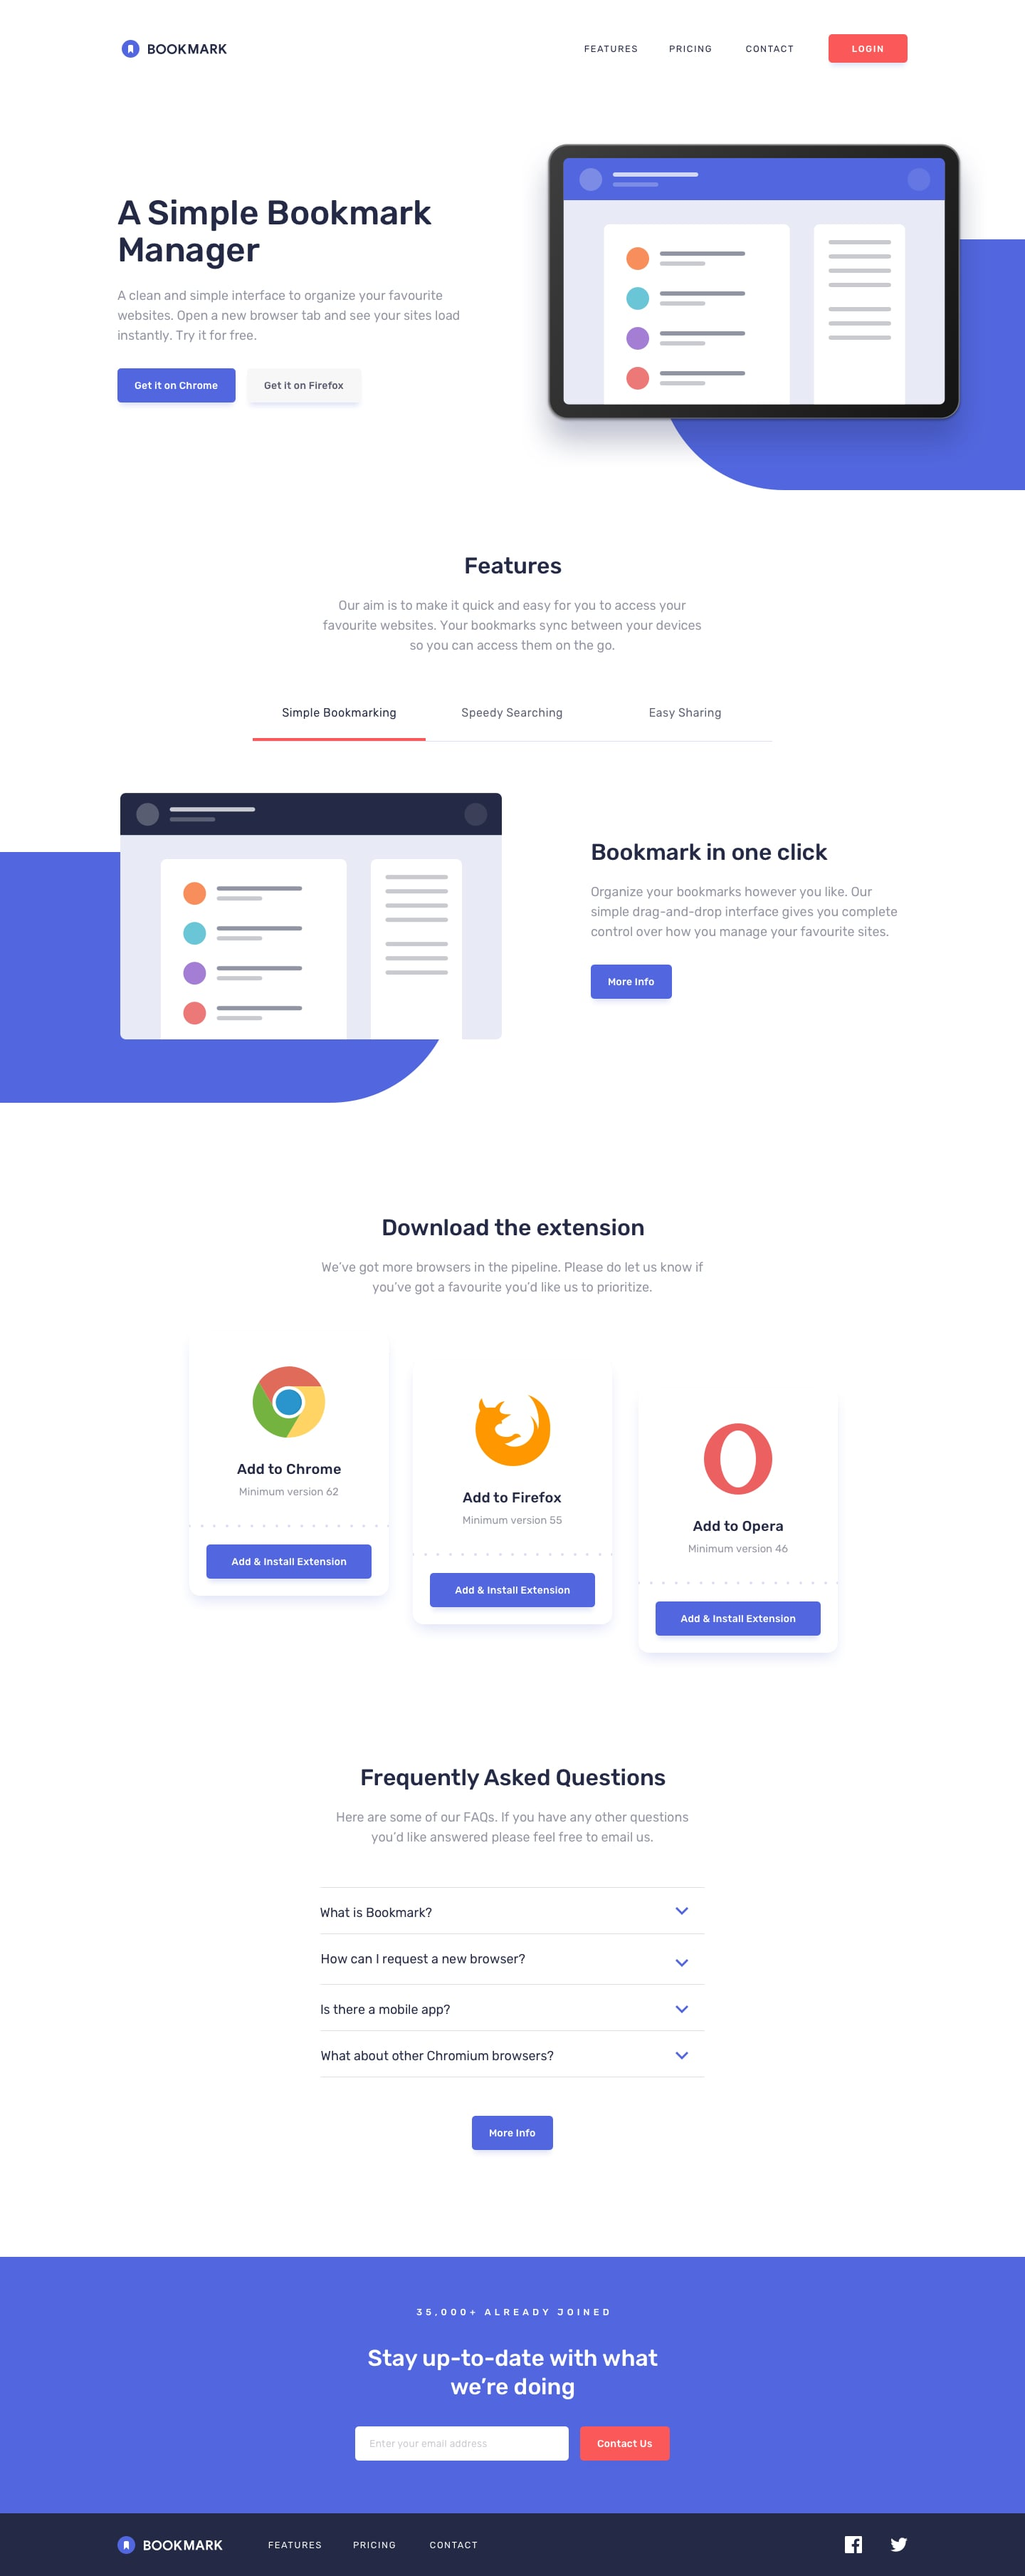
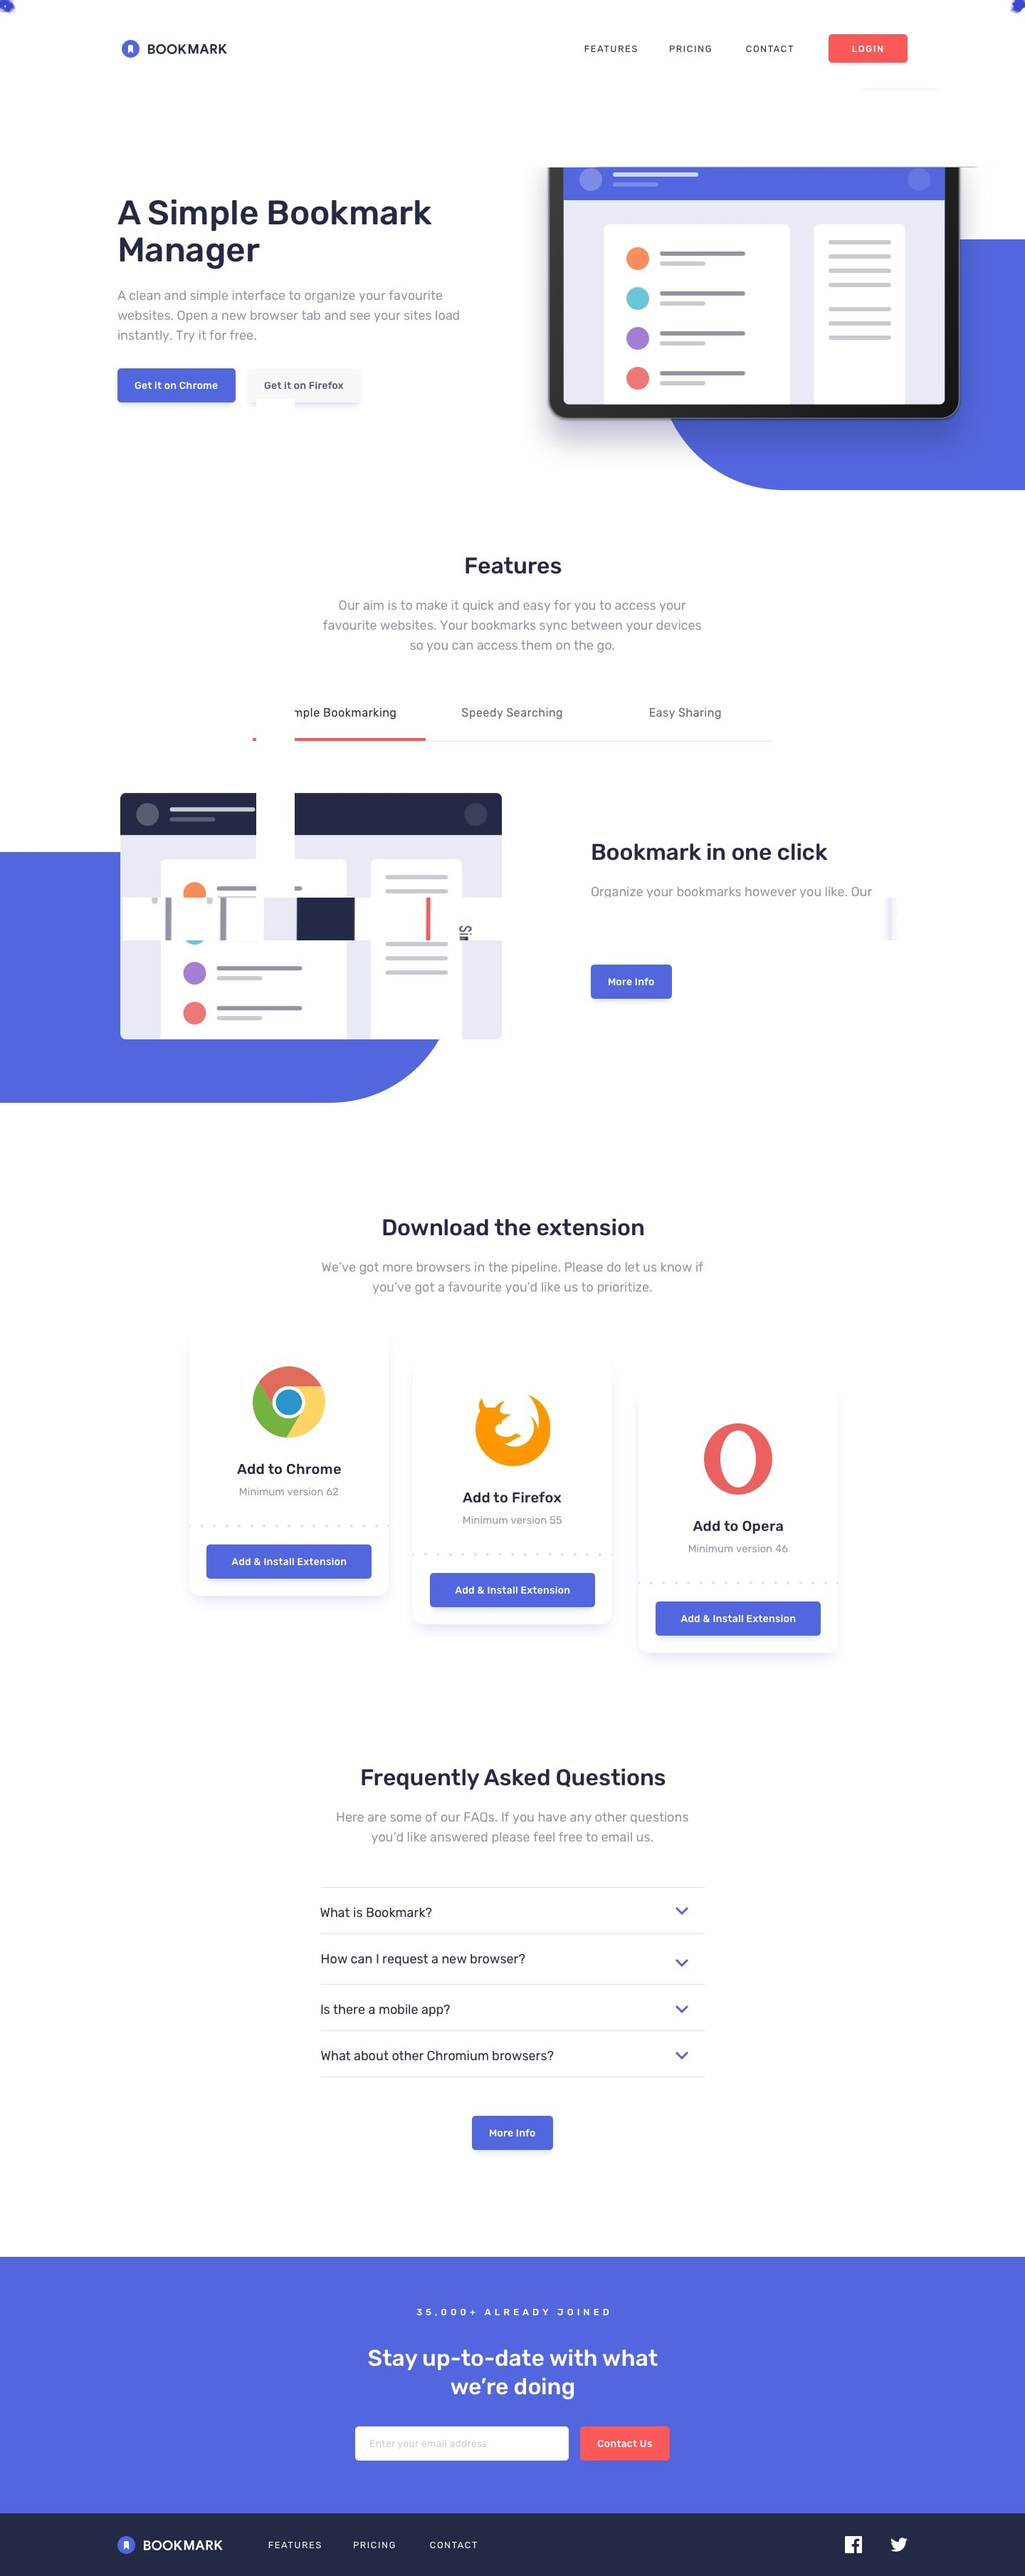
первый коммит, сделал заголовок, много времени ушло на определение размеров по линеки

diff --git a/index.html b/index.html
@@ -1,37 +1,72 @@
 <!DOCTYPE html>
 <html lang="en">
+
 <head>
   <meta charset="UTF-8">
-  <meta name="viewport" content="width=device-width, initial-scale=1.0"> <!-- displays site properly based on user's device -->
-
+  <meta name="viewport" content="width=device-width, initial-scale=1.0">
+  <!-- displays site properly based on user's device -->
+  <link rel="stylesheet" href="./style/style.css">
   <link rel="icon" type="image/png" sizes="32x32" href="./images/favicon-32x32.png">
-  
+  <link rel="stylesheet" href="https://cdnjs.cloudflare.com/ajax/libs/font-awesome/5.12.1/css/all.min.css" />
+  <link href="https://fonts.googleapis.com/css2?family=Rubik:wght@400;500&display=swap" rel="stylesheet">
+
   <title>Frontend Mentor | Bookmark landing page</title>
 
   <!-- Feel free to remove these styles or customise in your own stylesheet 👍 -->
   <style>
-    .attribution { font-size: 11px; text-align: center; }
-    .attribution a { color: hsl(228, 45%, 44%); }
+    .attribution {
+      font-size: 11px;
+      text-align: center;
+    }
+
+    .attribution a {
+      color: hsl(228, 45%, 44%);
+    }
   </style>
 </head>
+
 <body>
+  <header class="header">
+    <div class="container">
+      <nav class="header__nav">
+        <img class="nav__logo" src="./img/logo-bookmark.svg" alt="logo-bookmark">
+        <div>
+          <ul class="nav__menu">
+            <li><a href="#" class="nav__link"></a>Features</li>
+            <li><a href="#" class="nav__link"></a>Pricing</li>
+            <li><a href="#" class="nav__link"></a>Contact</li>
+            <li><button class="nav__btn">Login</button></li>
+          </ul>
+
+        </div>
+
+      </nav>
+    </div>
+  </header>
+  <section class="main">
+    <div class="main__simple">
+      <h1 class="main__title">A Simple Bookmark Manager</h1>
+      <p>A clean and simple interface to organize your favourite websites. Open a new
+        browser tab and see your sites load instantly. Try it for free.</p>
+      <form class="main__form">
+        <button class="main__chrome">Get it on Chrome</button>
+        <button class="main__firefox">Get it on Firefox</button>
+      </form>
+    </div>
+    <div class="main__imegs">
+      
+    </div>
+
+
+  </section>
+
+
+  
+  
 
   Features
-  Pricing
-  Contact
-  Login
 
-  A Simple Bookmark Manager
-
-  A clean and simple interface to organize your favourite websites. Open a new 
-  browser tab and see your sites load instantly. Try it for free.
-
-  Get it on Chrome
-  Get it on Firefox
-
-  Features
-
-  Our aim is to make it quick and easy for you to access your favourite websites. 
+  Our aim is to make it quick and easy for you to access your favourite websites.
   Your bookmarks sync between your devices so you can access them on the go.
 
   Simple Bookmarking
@@ -40,28 +75,28 @@
 
   Bookmark in one click
 
-  Organize your bookmarks however you like. Our simple drag-and-drop interface 
+  Organize your bookmarks however you like. Our simple drag-and-drop interface
   gives you complete control over how you manage your favourite sites.
 
   More Info
 
   Intelligent search
 
-  Our powerful search feature will help you find saved sites in no time at all. 
+  Our powerful search feature will help you find saved sites in no time at all.
   No need to trawl through all of your bookmarks.
 
   More Info
 
   Share your bookmarks
 
-  Easily share your bookmarks and collections with others. Create a shareable 
+  Easily share your bookmarks and collections with others. Create a shareable
   link that you can send at the click of a button.
 
   More Info
 
   Download the extension
 
-  We’ve got more browsers in the pipeline. Please do let us know if you’ve 
+  We’ve got more browsers in the pipeline. Please do let us know if you’ve
   got a favourite you’d like us to prioritize.
 
   Add to Chrome
@@ -77,39 +112,39 @@
   Add & Install Extension
 
   Frequently Asked Questions
-  
-  Here are some of our FAQs. If you have any other questions you’d like 
+
+  Here are some of our FAQs. If you have any other questions you’d like
   answered please feel free to email us.
 
   <!-- Question 1 -->
   What is Bookmark?
 
   <!-- Answer 1 -->
-  Lorem ipsum dolor sit amet, consectetur adipiscing elit. Fusce tincidunt 
+  Lorem ipsum dolor sit amet, consectetur adipiscing elit. Fusce tincidunt
   justo eget ultricies fringilla. Phasellus blandit ipsum quis quam ornare mattis.
 
   <!-- Question 2 -->
   How can I request a new browser?
 
   <!-- Answer 2 -->
-  Vivamus luctus eros aliquet convallis ultricies. Mauris augue massa, ultricies non ligula. 
-  Suspendisse imperdiet. Vivamus luctus eros aliquet convallis ultricies. Mauris augue massa, 
-  ultricies non ligula. Suspendisse imperdie tVivamus luctus eros aliquet convallis ultricies. 
+  Vivamus luctus eros aliquet convallis ultricies. Mauris augue massa, ultricies non ligula.
+  Suspendisse imperdiet. Vivamus luctus eros aliquet convallis ultricies. Mauris augue massa,
+  ultricies non ligula. Suspendisse imperdie tVivamus luctus eros aliquet convallis ultricies.
   Mauris augue massa, ultricies non ligula. Suspendisse imperdiet.
 
   <!-- Question 3 -->
   Is there a mobile app?
 
   <!-- Answer 3 -->
-  Sed consectetur quam id neque fermentum accumsan. Praesent luctus vestibulum dolor, ut condimentum 
-  urna vulputate eget. Cras in ligula quis est pharetra mattis sit amet pharetra purus. Sed 
+  Sed consectetur quam id neque fermentum accumsan. Praesent luctus vestibulum dolor, ut condimentum
+  urna vulputate eget. Cras in ligula quis est pharetra mattis sit amet pharetra purus. Sed
   sollicitudin ex et ultricies bibendum.
 
   <!-- Question 4 -->
   What about other Chromium browsers?
 
   <!-- Answer 4 -->
-  Integer condimentum ipsum id imperdiet finibus. Vivamus in placerat mi, at euismod dui. Aliquam 
+  Integer condimentum ipsum id imperdiet finibus. Vivamus in placerat mi, at euismod dui. Aliquam
   vitae neque eget nisl gravida pellentesque non ut velit.
 
   More Info
@@ -123,12 +158,13 @@
   Features
   Pricing
   Contact
-  
+
   <footer>
     <p class="attribution">
-      Challenge by <a href="https://www.frontendmentor.io?ref=challenge" target="_blank">Frontend Mentor</a>. 
+      Challenge by <a href="https://www.frontendmentor.io?ref=challenge" target="_blank">Frontend Mentor</a>.
       Coded by <a href="#">Your Name Here</a>.
     </p>
   </footer>
 </body>
+
 </html>

diff --git a/style/style.css b/style/style.css
@@ -1,0 +1,98 @@
+:root{
+/*## Colors
+### Primary
+*/
+--softblue: hsl(231, 69%, 60%);
+--softred: hsl(0, 94%, 66%);
+
+/*### Neutral*/
+
+--grayishblue: hsl(229, 8%, 60%);
+--verydarkblue: hsl(229, 31%, 21%);
+}
+*:before,
+*:after {
+    box-sizing: border-box;
+}
+
+h1, h2, h3, h4, h5, h6{
+    margin: 0;
+}
+*,
+*:before,
+*:after {
+	padding: 0;
+	margin: 0;
+	border: 0;
+	box-sizing: border-box;
+} 
+body{
+    font-size: 18px;
+    font-family: 'Rubik', sans-serif;
+    max-width: 1440px; /*максимальный размер 1170пх*/
+    width: 100%; /*ширина блока*/
+    margin: 0 auto; /*выровниваем по центру*/
+    border: 1px solid var(--grayishblue);
+    
+}
+.container{   
+    max-width: 1100px; /*максимальный размер 1170пх*/
+    width: 100%; /*ширина блока*/
+    margin: 0 auto; /*выровниваем по центру*/
+    padding: 0px;
+    border: 1px solid var(--grayishblue);
+}
+.header__nav{
+    display: flex;
+   align-items: center;
+   
+    justify-content: space-between; /*justify-content определяет, как браузер распределяет пространство между и вокруг элементов контента вдоль главной оси flex контейнера, или вдоль строчной оси grid контейнера.*/
+    margin: 50px 0;
+    
+}
+.header__nav ul{
+    display: flex;
+    padding: 0;
+    list-style-type: none;
+    margin-left:  10px;
+    align-items: center;
+}
+    
+.nav__menu li{
+    margin-left: 40px;
+    text-transform: uppercase; /*Все символы текста становятся прописными (верхний регистр).*/
+    cursor: pointer;
+    font-size: 14px;
+
+}
+.nav__menu li:hover{
+    color: var(--softred);
+
+}
+
+
+ 
+.nav__btn{
+    font-size: 18px;
+    padding: 10px 30px 10px 30px;    
+    background-color: var(--softred); 
+    border-radius: 5px;       
+    color: #ffffff;  
+    cursor: pointer;
+    text-transform: uppercase;
+}
+
+.main{
+    display: flex;
+    max-width: 1100px; /*максимальный размер 1170пх*/
+    width: 100%; /*ширина блока*/
+    margin: 0 auto; /*выровниваем по центру*/
+    padding: 0px;
+    border: 1px solid var(--grayishblue);
+}
+
+.main__imegs{
+    background: url(../img/illustration-hero.svg) no-repeat;
+    width: 100%;
+
+}
